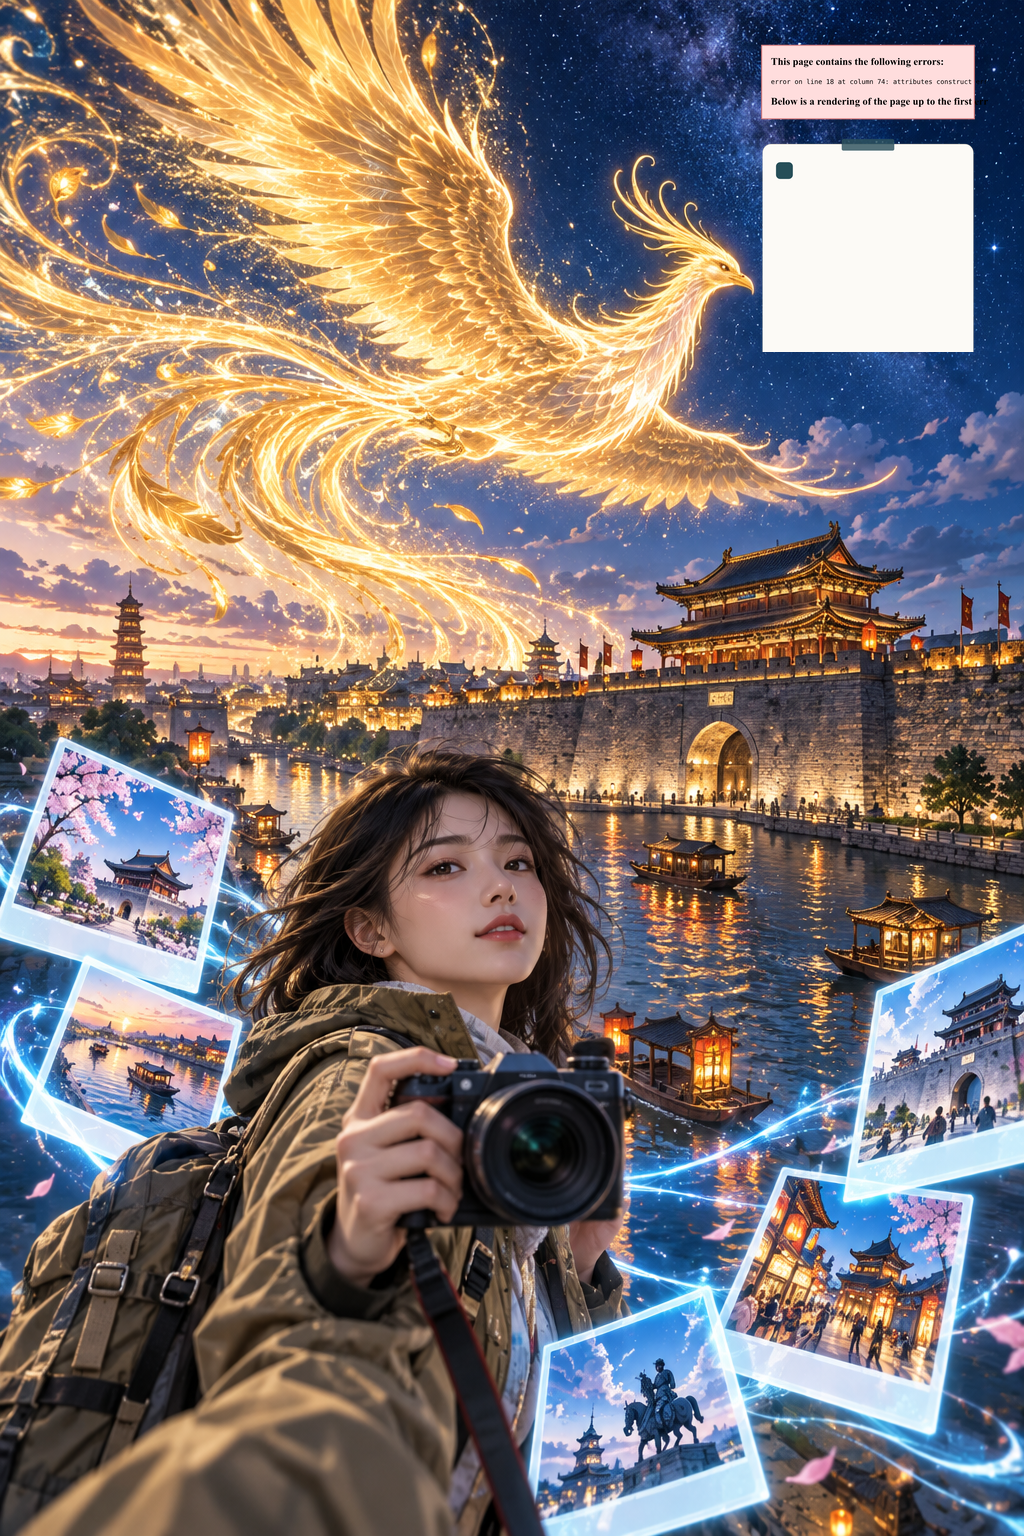
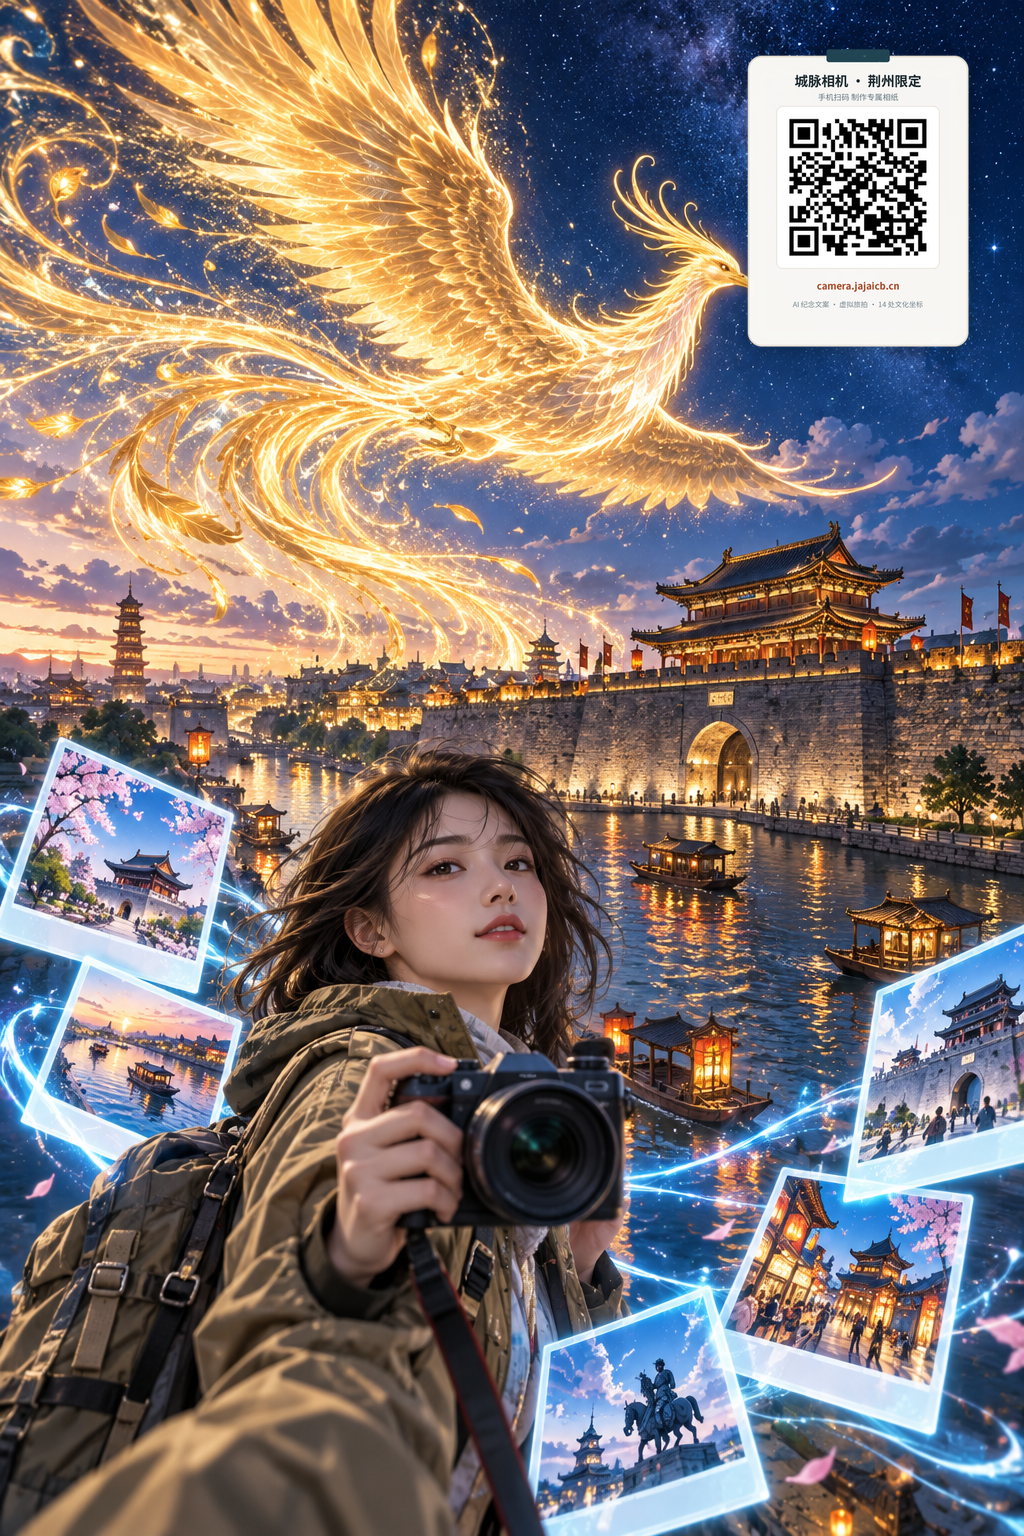
fix: re-render clean sharp qr code badge without svg xml errors on all 3 posters

Changed region(s): [[0.7188, 0.0312, 0.9688, 0.25]]

diff --git a/scripts/create-badge.py b/scripts/create-badge.py
@@ -1,0 +1,67 @@
+from PIL import Image, ImageDraw, ImageFont, ImageFilter
+
+def create_badge():
+    scale = 3  # 3倍超采样抗锯齿
+    w, h = 280 * scale, 370 * scale
+    pad = 25 * scale
+    canvas_w, canvas_h = w + pad * 2, h + pad * 2
+    
+    canvas = Image.new("RGBA", (canvas_w, canvas_h), (0, 0, 0, 0))
+    
+    # 柔和多层阴影
+    shadow = Image.new("RGBA", (canvas_w, canvas_h), (0, 0, 0, 0))
+    s_draw = ImageDraw.Draw(shadow)
+    card_box = [pad, pad + 5 * scale, pad + w, pad + h + 5 * scale]
+    s_draw.rounded_rectangle(card_box, radius=18 * scale, fill=(15, 25, 30, 85))
+    shadow = shadow.filter(ImageFilter.GaussianBlur(10 * scale))
+    canvas.alpha_composite(shadow)
+    
+    # 卡片底色（米白暖调纸张质感）
+    card = Image.new("RGBA", (canvas_w, canvas_h), (0, 0, 0, 0))
+    c_draw = ImageDraw.Draw(card)
+    card_rect = [pad, pad, pad + w, pad + h]
+    c_draw.rounded_rectangle(card_rect, radius=18 * scale, fill=(254, 252, 248, 250), outline=(220, 212, 198, 255), width=2 * scale)
+    
+    # 顶部和纸胶带装饰
+    tape_w, tape_h = 80 * scale, 16 * scale
+    tape_box = [pad + (w - tape_w) // 2, pad - 8 * scale, pad + (w + tape_w) // 2, pad + 8 * scale]
+    c_draw.rounded_rectangle(tape_box, radius=3 * scale, fill=(40, 80, 90, 210))
+    
+    # 思源中文字体
+    f_bold = "/home/zzdr1023/.local/share/fonts/noto-sc-standalone/NotoSansCJKsc-Bold.ttf"
+    f_reg = "/home/zzdr1023/.local/share/fonts/noto-sc-standalone/NotoSansCJKsc-Regular.ttf"
+    
+    font_title = ImageFont.truetype(f_bold, 17 * scale)
+    font_sub = ImageFont.truetype(f_reg, 10 * scale)
+    font_url = ImageFont.truetype(f_bold, 12 * scale)
+    font_tag = ImageFont.truetype(f_reg, 9 * scale)
+
+    # 品牌图标与文字
+    c_draw.text((pad + w // 2, pad + 24 * scale), "城脉相机 · 荆州限定", fill=(28, 42, 48), font=font_title, anchor="mt")
+    c_draw.text((pad + w // 2, pad + 48 * scale), "手机扫码 制作专属相纸", fill=(100, 118, 128), font=font_sub, anchor="mt")
+    
+    # 二维码背景框与贴图
+    qr = Image.open("assets/qrcode/camera-qrcode-1024.png").convert("RGBA")
+    qr_size = 195 * scale
+    qr_resized = qr.resize((qr_size, qr_size), Image.Resampling.LANCZOS)
+    
+    qr_x = pad + (w - qr_size) // 2
+    qr_y = pad + 70 * scale
+    c_draw.rounded_rectangle([qr_x - 6 * scale, qr_y - 6 * scale, qr_x + qr_size + 6 * scale, qr_y + qr_size + 6 * scale],
+                             radius=8 * scale, fill=(255, 255, 255, 255), outline=(232, 225, 215, 255), width=1 * scale)
+    card.paste(qr_resized, (qr_x, qr_y), qr_resized)
+    
+    # 底部网址与功能标签
+    c_draw.text((pad + w // 2, pad + 288 * scale), "camera.jajaicb.cn", fill=(168, 76, 42), font=font_url, anchor="mt")
+    c_draw.text((pad + w // 2, pad + 312 * scale), "AI 纪念文案 · 虚拟旅拍 · 14 处文化坐标", fill=(120, 135, 143), font=font_tag, anchor="mt")
+    
+    canvas.alpha_composite(card)
+    
+    # 缩放到目标尺寸
+    out_w = (w + pad * 2) // scale
+    out_h = (h + pad * 2) // scale
+    badge_final = canvas.resize((out_w, out_h), Image.Resampling.LANCZOS)
+    badge_final.save("assets/qrcode/poster_badge.png", "PNG")
+    print("Poster badge generated successfully: assets/qrcode/poster_badge.png")
+
+create_badge()

diff --git a/scripts/compose-posters.py b/scripts/compose-posters.py
@@ -1,44 +1,56 @@
-import os
 from pathlib import Path
-from PIL import Image, ImageDraw, ImageFont, ImageFilter
+from PIL import Image
 
 raw_dir = Path("posters/raw")
 final_dir = Path("posters/final")
+pub_dir = Path("public/posters")
 final_dir.mkdir(parents=True, exist_ok=True)
+pub_dir.mkdir(parents=True, exist_ok=True)
 
-# 加载二维码卡片
-card_img = Image.open("assets/qrcode/camera-qrcode-card.png").convert("RGBA")
+# 加载无 bug、高清晰度的精美二维码相纸徽章
+badge_src = Image.open("assets/qrcode/poster_badge.png").convert("RGBA")
 
-# 缩放卡片为适合 1024 宽海报右上角的尺寸
-# 宽度 240px，高约 316px
-target_w = 240
-target_h = int(card_img.height * (target_w / card_img.width))
-badge = card_img.resize((target_w, target_h), Image.Resampling.LANCZOS)
+# 针对 1024x1536 尺寸调整徽章大小
+# 徽章原始尺寸 330x420，宽高比 0.7857
+# 缩放到宽 260px，高 331px
+badge_w = 260
+badge_h = int(badge_src.height * (badge_w / badge_src.width))
+badge = badge_src.resize((badge_w, badge_h), Image.Resampling.LANCZOS)
 
-# 3 张海报处理
-posters = [
-    ("poster1_heritage.png", "poster1_heritage_final.png", "国风楚韵 · 暮色城脉"),
-    ("poster2_lifestyle.png", "poster2_lifestyle_final.png", "文艺治愈 · 拍立得旅行杂志"),
-    ("poster3_fantasy.png", "poster3_fantasy_final.png", "奇旅幻境 · 楚风与AI虚拟旅拍")
+configs = [
+    {
+        "raw": "poster1_heritage.png",
+        "final": "poster1_heritage_final.png",
+        "pub": "poster1.png",
+        "x": 1024 - badge_w - 36,
+        "y": 36,
+        "title": "方案一：国风楚韵 · 暮色城脉"
+    },
+    {
+        "raw": "poster2_lifestyle.png",
+        "final": "poster2_lifestyle_final.png",
+        "pub": "poster2.png",
+        "x": 1024 - badge_w - 42,
+        "y": 42,
+        "title": "方案二：文艺治愈 · 拍立得旅行手帐"
+    },
+    {
+        "raw": "poster3_fantasy.png",
+        "final": "poster3_fantasy_final.png",
+        "pub": "poster3.png",
+        "x": 1024 - badge_w - 36,
+        "y": 36,
+        "title": "方案三：奇旅幻境 · 楚凤鸣霄与AI虚拟旅拍"
+    }
 ]
 
-margin_right = 36
-margin_top = 36
-pos_x = 1024 - target_w - margin_right
-pos_y = margin_top
+for cfg in configs:
+    base = Image.open(raw_dir / cfg["raw"]).convert("RGBA")
+    base.alpha_composite(badge, dest=(cfg["x"], cfg["y"]))
+    
+    out_img = base.convert("RGB")
+    out_img.save(final_dir / cfg["final"], "PNG", quality=98)
+    out_img.save(pub_dir / cfg["pub"], "PNG", quality=98)
+    print(f"Rendered: {cfg['title']} -> {cfg['final']}")
 
-for raw_name, final_name, title in posters:
-    raw_path = raw_dir / raw_name
-    final_path = final_dir / final_name
-    
-    base = Image.open(raw_path).convert("RGBA")
-    
-    # 贴入右上角二维码徽章（带透明度混合）
-    base.alpha_composite(badge, dest=(pos_x, pos_y))
-    
-    # 保存成品 PNG
-    out_rgb = base.convert("RGB")
-    out_rgb.save(final_path, "PNG", quality=95)
-    print(f"Created final poster: {final_path} ({title})")
-
-print("All final posters created successfully!")
+print("All 3 final posters successfully assembled!")
